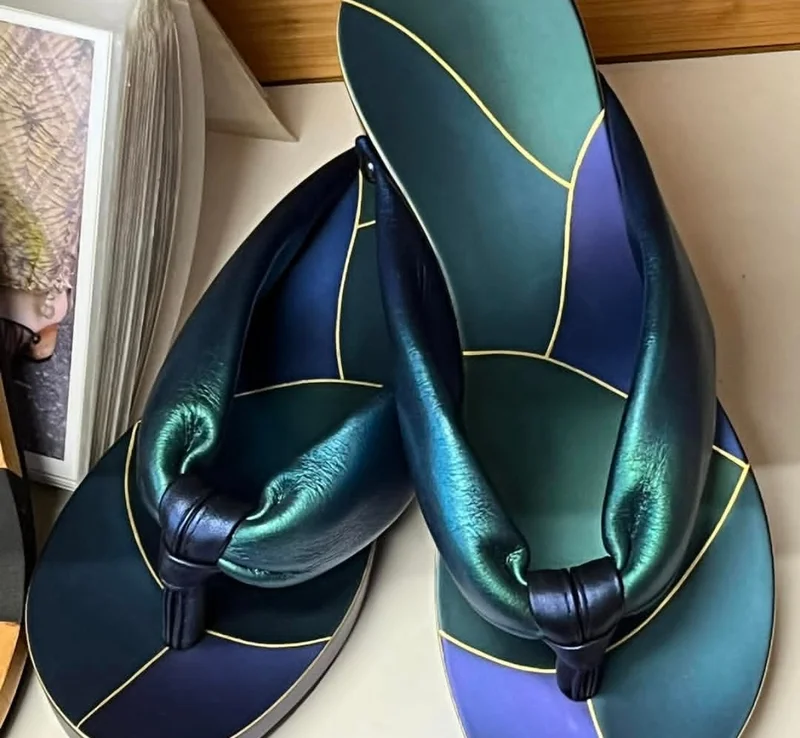
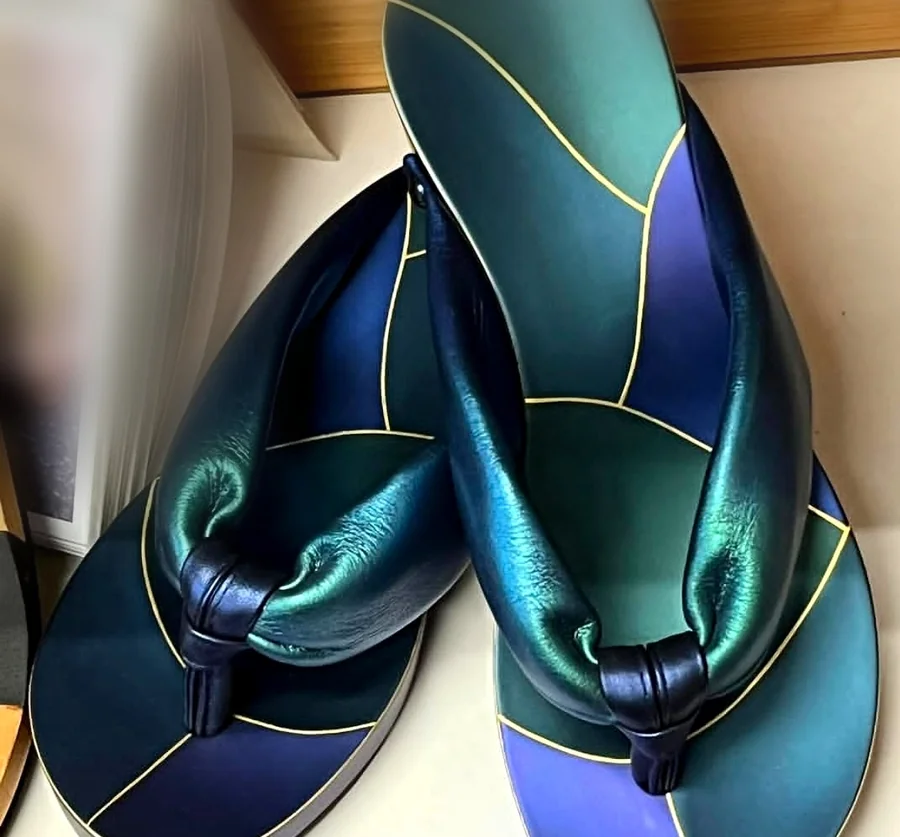
商品写真の改善とKenplanter商品の追加 (#40)
* 水鳥の草履の商品写真を改善（背景ぼかし・色調補正）

背景の書類や本棚が目立ちすぎていたため、被写界深度風の背景ぼかしで
商品にフォーカスし、コントラスト・彩度を軽く補正。画像サイズ属性も
差し替え後の解像度に合わせて更新。

Claude-Session: https://claude.ai/code/session_019jexkW3bfAbZiUnj3WBAKE

* Kenplanterパンプスの商品ページ項目を追加

婦人靴・ウォーキングシューズのセクションに、セミオーダー対応の
Kenplanterパンプスを追加。商品ラインナップのグリッドと構造化データの
itemListElementにも反映。

Claude-Session: https://claude.ai/code/session_019jexkW3bfAbZiUnj3WBAKE

* Kenplanterショートブーツを商品ページとご相談事例に追加

外反扁平足で歩行が不安定なお客様に選んだショートブーツの事例を
products.htmlの商品ラインナップに追加し、同じ写真とエピソードを
case-studies.htmlにも事例として掲載。

Claude-Session: https://claude.ai/code/session_019jexkW3bfAbZiUnj3WBAKE

---------

diff --git a/products.html b/products.html
@@ -54,14 +54,16 @@
             "mainEntity": {
               "@type": "ItemList",
               "itemListElement": [
-                { "@type": "ListItem", "position": 1, "url": "https://www.andantino-shoes.jp/products.html#product-paramount", "name": "パラマウント・ワーカーズ・コープ（本革パンプス）" },
-                { "@type": "ListItem", "position": 2, "url": "https://www.andantino-shoes.jp/products.html#product-bolognese", "name": "コンフォート・ボロネーゼ" },
-                { "@type": "ListItem", "position": 3, "url": "https://www.andantino-shoes.jp/products.html#product-superfit", "name": "Superfit（スーパーフィット）" },
-                { "@type": "ListItem", "position": 4, "url": "https://www.andantino-shoes.jp/products.html#product-branca", "name": "Branca（ブランカ）" },
-                { "@type": "ListItem", "position": 5, "url": "https://www.andantino-shoes.jp/products.html#product-dragon-insole", "name": "マイスター・ベーレ監修『竜のインソール』" },
-                { "@type": "ListItem", "position": 6, "url": "https://www.andantino-shoes.jp/products.html#product-geta-item", "name": "水鳥の下駄" },
-                { "@type": "ListItem", "position": 7, "url": "https://www.andantino-shoes.jp/products.html#product-zori", "name": "水鳥の草履" },
-                { "@type": "ListItem", "position": 8, "url": "https://www.andantino-shoes.jp/products.html#socks", "name": "あなたを支える靴下" }
+                { "@type": "ListItem", "position": 1, "url": "https://www.andantino-shoes.jp/products.html#product-kenplanter", "name": "Kenplanter（ケンプランター）のパンプス" },
+                { "@type": "ListItem", "position": 2, "url": "https://www.andantino-shoes.jp/products.html#product-kenplanter-boots", "name": "Kenplanter（ケンプランター）のショートブーツ" },
+                { "@type": "ListItem", "position": 3, "url": "https://www.andantino-shoes.jp/products.html#product-paramount", "name": "パラマウント・ワーカーズ・コープ（本革パンプス）" },
+                { "@type": "ListItem", "position": 4, "url": "https://www.andantino-shoes.jp/products.html#product-bolognese", "name": "コンフォート・ボロネーゼ" },
+                { "@type": "ListItem", "position": 5, "url": "https://www.andantino-shoes.jp/products.html#product-superfit", "name": "Superfit（スーパーフィット）" },
+                { "@type": "ListItem", "position": 6, "url": "https://www.andantino-shoes.jp/products.html#product-branca", "name": "Branca（ブランカ）" },
+                { "@type": "ListItem", "position": 7, "url": "https://www.andantino-shoes.jp/products.html#product-dragon-insole", "name": "マイスター・ベーレ監修『竜のインソール』" },
+                { "@type": "ListItem", "position": 8, "url": "https://www.andantino-shoes.jp/products.html#product-geta-item", "name": "水鳥の下駄" },
+                { "@type": "ListItem", "position": 9, "url": "https://www.andantino-shoes.jp/products.html#product-zori", "name": "水鳥の草履" },
+                { "@type": "ListItem", "position": 10, "url": "https://www.andantino-shoes.jp/products.html#socks", "name": "あなたを支える靴下" }
               ]
             }
           },
@@ -132,6 +134,14 @@
                 写真から気になる商品をタップすると、詳しいご案内へ移動します。
               </p>
               <div class="product-grid">
+                <a class="product-grid__item" href="#product-kenplanter">
+                  <img src="./assets/product-kenplanter-pumps.webp" width="900" height="482" loading="lazy" alt="ネイビーとボルドーの2色使いのKenplanterパンプス">
+                  <span>Kenplanterのパンプス</span>
+                </a>
+                <a class="product-grid__item" href="#product-kenplanter-boots">
+                  <img src="./assets/product-kenplanter-boots.webp" width="900" height="823" loading="lazy" alt="ベージュのKenplanterショートブーツ、面ファスナー2本留め">
+                  <span>Kenplanterのショートブーツ</span>
+                </a>
                 <a class="product-grid__item" href="#product-paramount">
                   <img src="./assets/paramount-pumps.webp" width="900" height="1125" loading="lazy" alt="パラマウントの本革パンプス">
                   <span>パラマウント・ワーカーズ・コープ</span>
@@ -157,7 +167,7 @@
                   <span>水鳥の下駄</span>
                 </a>
                 <a class="product-grid__item" href="#product-zori">
-                  <img src="./assets/zori-floral.webp" width="800" height="746" loading="lazy" alt="花柄生地の草履">
+                  <img src="./assets/zori-floral.webp" width="900" height="864" loading="lazy" alt="花柄生地の草履">
                   <span>水鳥の草履</span>
                 </a>
                 <a class="product-grid__item" href="#socks">
@@ -172,6 +182,43 @@
                 これまで、ケンプランターのセミオーダー靴、フィンコンフォート、タナー社
                 Fiori、ニューバランス、ミズノ、パラマウント・ワーカーズ・コープ、あゆみシューズなどをご案内してきました。現在の取扱い・サイズ・色・納期は変動するため、ご予約時にご確認ください。
               </p>
+              <h3 id="product-kenplanter">Kenplanter（ケンプランター）のパンプス</h3>
+              <figure class="legacy-photo">
+                <img
+                  src="./assets/product-kenplanter-pumps.webp"
+                  width="900"
+                  height="482"
+                  loading="lazy"
+                  alt="ネイビーとボルドーの2色使いのKenplanterパンプス"
+               >
+                <figcaption>Kenplanterのパンプス（ネイビー×ボルドー）</figcaption>
+              </figure>
+              <div class="callout">
+                <strong>Kenplanterのパンプス　ヒール3.5cm</strong>
+                <p>
+                  パンプスをお好みのお客様からのセミオーダー例です。ネイビーとボルドーの2色使いで、ヒール3.5cmは安定性がよく、長く履いていても疲れにくいとファンの多い一足です。幅を少し広くする、甲を高くする、指先部分の高さを増やすなど、足に合わせた特別注文にも対応しています。
+                </p>
+              </div>
+              <p>
+                この靴やKenplanterについてのお問い合わせにも対応しています。外反母趾など足の当たりが気になる方は、ご来店時にお気軽にご相談ください。
+              </p>
+              <h3 id="product-kenplanter-boots">Kenplanter（ケンプランター）のショートブーツ</h3>
+              <figure class="legacy-photo">
+                <img
+                  src="./assets/product-kenplanter-boots.webp"
+                  width="900"
+                  height="823"
+                  loading="lazy"
+                  alt="ベージュのKenplanterショートブーツ、面ファスナー2本留め"
+               >
+                <figcaption>Kenplanterのショートブーツ</figcaption>
+              </figure>
+              <div class="callout">
+                <strong>Kenplanterのショートブーツ　面ファスナー2本留め</strong>
+                <p>
+                  外反扁平足で歩行が不安定なお客様に合わせてお探しした一足です。不安定な足をどれだけ支えられるかを条件に、デザインと歩きやすさを両立できる靴としてご案内しました。靴の中にはオーダーインソールを合わせ、足のバランスを取って歩きやすくする工夫をしています。おしゃれで足に良いパンプスで定評のあるKenplanterのショートブーツで、健康な足の方の秋冬の一足としてもお勧めです。
+                </p>
+              </div>
               <h3 id="product-paramount">パラマウント・ワーカーズ・コープ（本革パンプス）</h3>
               <figure class="legacy-photo legacy-photo--narrow">
                 <img
@@ -305,8 +352,8 @@
                   <div class="legacy-gallery__frame">
                     <img
                       src="./assets/zori-floral.webp"
-                      width="800"
-                      height="746"
+                      width="900"
+                      height="864"
                       loading="lazy"
                       alt="花柄生地の草履"
                    >
@@ -317,8 +364,8 @@
                   <div class="legacy-gallery__frame">
                     <img
                       src="./assets/zori-metallic.webp"
-                      width="800"
-                      height="738"
+                      width="900"
+                      height="837"
                       loading="lazy"
                       alt="メタリックカラーの草履"
                    >

diff --git a/case-studies.html b/case-studies.html
@@ -13,12 +13,13 @@
     <nav class="breadcrumb" aria-label="パンくずリスト"><ol class="container"><li><a href="./">トップ</a></li><li><a href="./guides.html">足と靴の知識</a></li><li aria-current="page">ご相談事例</li></ol></nav>
     <main id="main"><section class="article-hero"><div class="container article-hero__inner"><span class="section-kicker">ご相談事例</span><h1>靴とインソールのご相談事例</h1><p>店頭で確認したこと、ご提案した内容、その後に伺った変化を、三つの事例でご紹介します。結果には個人差があります。</p></div><div class="container"><figure class="article-hero-photo"><img src="./assets/yoko-igarashi-insoles.webp" width="800" height="800" loading="eager" fetchpriority="high" alt="お客様に合わせて作製したインソールを手に持つANDANTINO代表・五十嵐洋子"></figure></div></section>
       <section class="article-body"><div class="container article-layout">
-        <nav class="article-toc" aria-label="目次"><strong>このページの内容</strong><a href="#case-knee">膝の痛みのご相談</a><a href="#case-footprint">フットプリントの経過観察</a><a href="#case-leglength">脚長差の補高</a></nav>
+        <nav class="article-toc" aria-label="目次"><strong>このページの内容</strong><a href="#case-knee">膝の痛みのご相談</a><a href="#case-footprint">フットプリントの経過観察</a><a href="#case-leglength">脚長差の補高</a><a href="#case-unstable-gait">外反扁平足の靴選び</a></nav>
         <article class="prose">
           <p class="article-byline">担当者：<a href="./owner.html">認定シューフィッター 五十嵐洋子</a> ／ 最終更新：2026年7月24日</p>
           <section id="case-knee"><details class="case-details"><summary><span class="section-icon"><svg viewBox="0 0 24 24"><circle cx="12" cy="12" r="3"/><line x1="12" y1="3" x2="12" y2="6"/><line x1="12" y1="18" x2="12" y2="21"/><line x1="3" y1="12" x2="6" y2="12"/><line x1="18" y1="12" x2="21" y2="12"/><line x1="5.6" y1="5.6" x2="7.8" y2="7.8"/><line x1="16.2" y1="16.2" x2="18.4" y2="18.4"/><line x1="5.6" y1="18.4" x2="7.8" y2="16.2"/><line x1="16.2" y1="7.8" x2="18.4" y2="5.6"/></svg></span>膝の痛みでご相談いただいた50代女性のお客様</summary><div><p>医療機関を受診済みの50代女性から、仕事用の靴についてご相談をいただきました。</p><p>立位と非荷重で足を計測し、フットプリント、足裏のタコ、立ち姿、歩行、現在の靴を確認しました。立位と非荷重では足囲に差があり、靴の中で足が動きやすい履き方になっていました。</p><p>そこで、仕事用のスニーカーと革靴を取り寄せ、踵の収まりと歩いたときの安定感を比較しました。あわせて、踵を合わせて紐を締める履き方と、使用する靴に合わせたインソールをご提案しました。</p><p>膝の診断や治療は行わず、症状については引き続き医療機関へ相談していただくようお伝えしています。</p></div></details></section>
           <section id="case-footprint"><details class="case-details"><summary><span class="section-icon"><svg viewBox="0 0 24 24"><ellipse cx="8" cy="9" rx="3" ry="4.5"/><ellipse cx="16" cy="16" rx="3" ry="4.5"/><circle cx="8" cy="3.8" r="1.1" fill="currentColor" stroke="none"/><circle cx="16" cy="10.8" r="1.1" fill="currentColor" stroke="none"/></svg></span>フットプリントで見る、3ヶ月ごとの経過観察</summary><div><p>3ヶ月ごとにフットプリントを採り、生活と靴の使い方を伺っている事例です。初回は土踏まずの写り方に左右差がありました。</p><p>踵を支える構造の靴と3Dインソールをご提案し、踵を合わせて紐を締める履き方を確認しました。</p><p>次の確認ではフットプリントに大きな変化はありませんでした。結果だけで良し悪しを決めず、歩く時間、靴の摩耗、使用時の感覚を伺い、同じ条件で記録を続けています。</p></div></details></section>
           <section id="case-leglength"><details class="case-details"><summary><span class="section-icon"><svg viewBox="0 0 24 24"><line x1="3" y1="17" x2="21" y2="7"/><line x1="5.5" y1="16.2" x2="7" y2="13.7"/><line x1="9" y1="14" x2="10.5" y2="11.5"/><line x1="12.5" y1="11.7" x2="14" y2="9.2"/><line x1="16" y1="9.5" x2="17.5" y2="7"/></svg></span>脚長差に合わせた補高の長期記録</summary><div><p>「2cm余りある脚長差に合わせて靴を調整したい」というご希望で、2012年から補高した靴をご利用いただいている事例です。</p><p>最初から大きく上げず、1cmから始め、使用時の感覚を確認しながら高さを見直しました。2018年には、ご本人が2.5cmを最も楽に感じると伺いました。</p><p>2022年にフットプリントと計測値を初回と比較したところ、左右それぞれに変化がありました。測定誤差もあるため補高だけの結果とは断定せず、ご本人の歩きやすさと靴の状態を含めて継続的に確認しています。</p></div></details></section>
+          <section id="case-unstable-gait"><details class="case-details"><summary><span class="section-icon"><svg viewBox="0 0 24 24"><circle cx="12" cy="4" r="1.6" fill="currentColor" stroke="none"/><line x1="12" y1="6.5" x2="12" y2="14"/><line x1="12" y1="9" x2="8" y2="12"/><line x1="12" y1="9" x2="16" y2="7"/><line x1="12" y1="14" x2="8" y2="20"/><line x1="12" y1="14" x2="16" y2="19"/></svg></span>外反扁平足で歩行が不安定なお客様の靴選び</summary><div><figure class="legacy-photo"><img src="./assets/product-kenplanter-boots.webp" width="900" height="823" loading="lazy" alt="ベージュのKenplanterショートブーツ、面ファスナー2本留め"><figcaption>ご案内したKenplanterのショートブーツ</figcaption></figure><p>外反扁平足があり、歩行が不安定というお悩みでご相談いただいた事例です。不安定な足をどれだけ支えられるかを、靴選びの大切な条件として確認しました。</p><p>靴底の面積が広いほど安定性は高くなりますが、今回はデザインを重視しながら実際に歩ける一足をご希望だったため、Kenplanterのショートブーツをご案内しました。おしゃれで足に良いパンプスで定評のあるブランドで、健康な足の方には秋冬の一足としてもお勧めしています。</p><p>靴だけでなくオーダーインソールも合わせて作製し、靴の中で足のバランスを取って歩きやすくする工夫をご案内しました。</p></div></details></section>
                     <div class="article-cta"><div><h2>今のお困りごとから、一緒に見ていきましょう。</h2><p>普段よく履く靴と、気になっていることをお聞かせください。</p></div><a class="button" href="https://line.me/R/ti/p/@680mdoos" target="_blank" rel="noopener">LINEでご予約・ご相談</a></div>
         </article>
       </div></section>